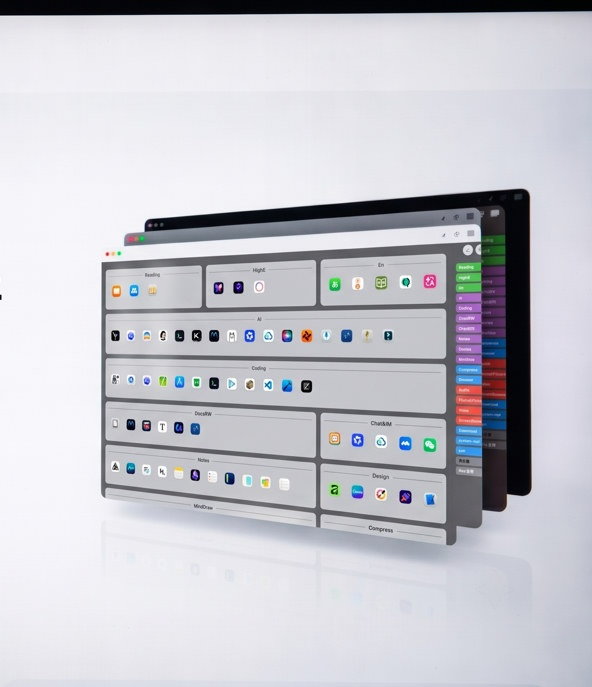
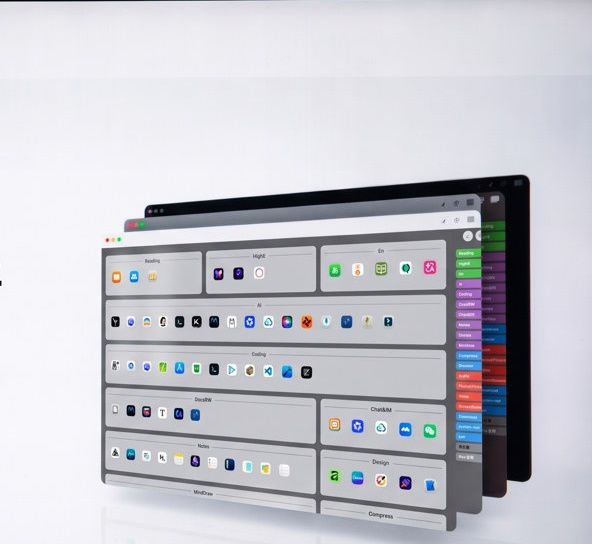
Tighten hero visual: trim excess reflection and drop full-screen height
Crop off the presentation top bar and bottom whitespace so only a subtle
reflection remains. Cap visual height and remove 100vh min-height so the
hero matches the compact proportions of the original design.

diff --git a/docs/styles.css b/docs/styles.css
@@ -151,12 +151,10 @@ a:hover {
   background: rgba(255, 255, 255, 0.88);
 }
 
-/* Hero — reference layout: copy left, stacked screenshots right */
+/* Hero — copy left, original design visual right (compact, no forced full-screen) */
 .hero {
   width: 100%;
-  min-height: calc(100svh - var(--header-h));
-  min-height: calc(100vh - var(--header-h));
-  padding: 48px 0 64px;
+  padding: 40px 0 48px;
   background: var(--hero-bg);
   overflow: hidden;
 }
@@ -166,8 +164,6 @@ a:hover {
   grid-template-columns: minmax(0, 0.92fr) minmax(0, 1.08fr);
   gap: 12px 32px;
   align-items: center;
-  min-height: calc(100svh - var(--header-h) - 96px);
-  min-height: calc(100vh - var(--header-h) - 96px);
 }
 
 .hero__copy {
@@ -191,7 +187,7 @@ a:hover {
   max-width: 22em;
 }
 
-/* Right art: pixels from user's original design (vertical crop only — stack + reflection intact) */
+/* Right art: original design pixels — subtle reflection only, capped height */
 .hero__art {
   margin: 0;
   line-height: 0;
@@ -202,9 +198,10 @@ a:hover {
 
 .hero__art img {
   display: block;
-  width: 100%;
+  width: auto;
   max-width: 100%;
   height: auto;
+  max-height: clamp(300px, 42vw, 500px);
 }
 
 /* Main content */

diff --git a/docs/index-en.html b/docs/index-en.html
@@ -42,7 +42,7 @@
           src="assets/hero-visual-only.jpg"
           alt=""
           width="592"
-          height="687"
+          height="544"
           fetchpriority="high"
           decoding="async"
           role="presentation">

diff --git a/docs/index.html b/docs/index.html
@@ -42,7 +42,7 @@
           src="assets/hero-visual-only.jpg"
           alt=""
           width="592"
-          height="687"
+          height="544"
           fetchpriority="high"
           decoding="async"
           role="presentation">
